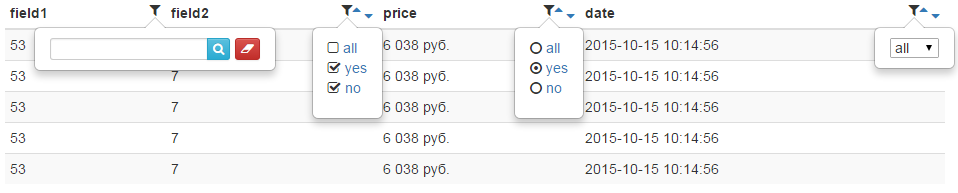
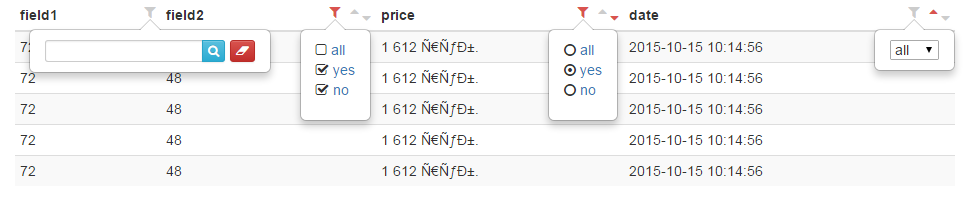
fix style filter

diff --git a/template/default/main.blade.php b/template/default/main.blade.php
@@ -12,6 +12,32 @@
     <script src="https://ajax.googleapis.com/ajax/libs/jquery/1.11.3/jquery.min.js"></script>
     <!-- Latest compiled and minified JavaScript -->
     <script src="https://maxcdn.bootstrapcdn.com/bootstrap/3.3.5/js/bootstrap.min.js"></script>
+    <style>
+        .th-filter {
+            margin-left: 10px;
+            cursor: pointer;
+        }
+
+        .filter-active {
+            color: #d9534f;
+        }
+
+        .filter-passive {
+            color: #ccc;
+        }
+
+        .th-sort {
+            margin-left: 10px;
+            color: #d9534f;
+            cursor: pointer;
+        }
+
+        .th-sort a {
+            color: #ccc;
+            text-decoration: none;
+        }
+
+    </style>		
 </head>
 <body>
 <div class="container">

diff --git a/template/default/head/column.blade.php b/template/default/head/column.blade.php
@@ -2,7 +2,7 @@
 
 {!! $column->renderHeaderCell() !!}
 @if($filter)
-<i class="fa fa-filter filter-popover pull-right @if($filter->isActive()) filter-active @else filter-passive @endif"></i>
+<i class="th-filter fa fa-filter filter-popover pull-right @if($filter->isActive()) filter-active @else filter-passive @endif"></i>
 <div class='filter-popover-content hide'>
     <div>@include("filter.".$filter->getTemplate(), ['filter' => $filter])</div>
 </div>

diff --git a/src/Criteria/Laravel.php b/src/Criteria/Laravel.php
@@ -48,4 +48,9 @@ class Laravel implements Criteria
     {
         $this->model->where($field, "like", "%{$value}%");
     }
+
+    public function equal($field, $value)
+    {
+        $this->model->where($field, "=", $value);
+    }
 }

diff --git a/template/default/head/sort.blade.php b/template/default/head/sort.blade.php
@@ -1,4 +1,4 @@
-<div class="pull-right">
+<div class="pull-right th-sort">
 {!! $column->contentSortArrow([
         'asc' => 'fa fa-sort-asc',
         'desc' => 'fa fa-sort-desc'
